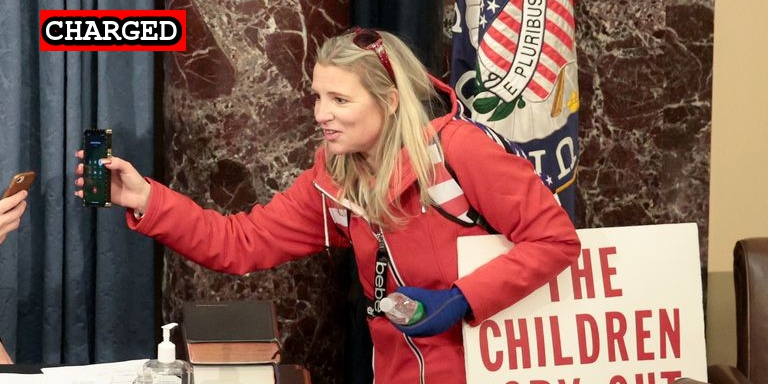
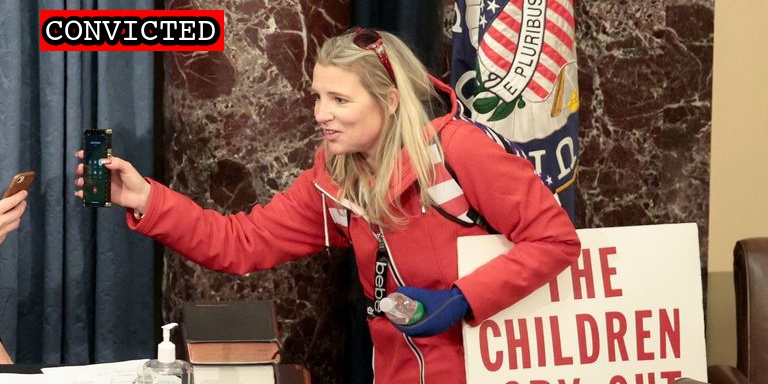
Priola pleading

Changed region(s): [[0.0625, 0.0, 0.3125, 0.1562]]

diff --git a/docs/_suspects/christine-priola.md b/docs/_suspects/christine-priola.md
@@ -4,15 +4,17 @@ lastName: Priola
 hashtag: ChristinePriola
 aka:
 residence: Ohio
-status: Charged
+status: Convicted
 date: 2021-01-14
 charged: 2021-01-14
 indicted:
-convicted: 
-sentenced: 
-dismissed: 
+convicted: 2022-07-26
+acquitted:
+sentenced:
+dismissed:
 deceased:
-plea_hearing:
+plea_hearing: 2022-07-26
+trial_date:
 sentencing:
 age: 49
 occupation: School Therapist
@@ -34,9 +36,15 @@ published: true
 caseNumber: 1:21-mj-53
 videos:
 charges:
+  - code: 18 USC § 1512(c)(2),2
+    title: Obstruction of an Official Proceeding (Aiding and Abetting)
+    url: https://www.law.cornell.edu/uscode/text/18/1512
+    felony: true
 sentence:
 ---
+
 - [News Report](https://www.cleveland.com/crime/2021/01/former-cleveland-schools-therapist-arrested-on-federal-charges-involving-attack-at-us-capitol.html)
 - [News Report: FBI Raid](https://www.cleveland.com/metro/2021/01/fbi-searches-former-cleveland-schools-employees-house-after-accusations-that-she-participated-in-us-capitol-riot.html)
 - [Complaint](https://www.justice.gov/opa/page/file/1354421/download)
 - [Statement of Facts](https://www.justice.gov/opa/page/file/1355526/download)
+- [DOJ Press Release (Conviction)](https://www.justice.gov/usao-dc/pr/ohio-woman-pleads-guilty-felony-charge-actions-jan-6-capitol-breach)
